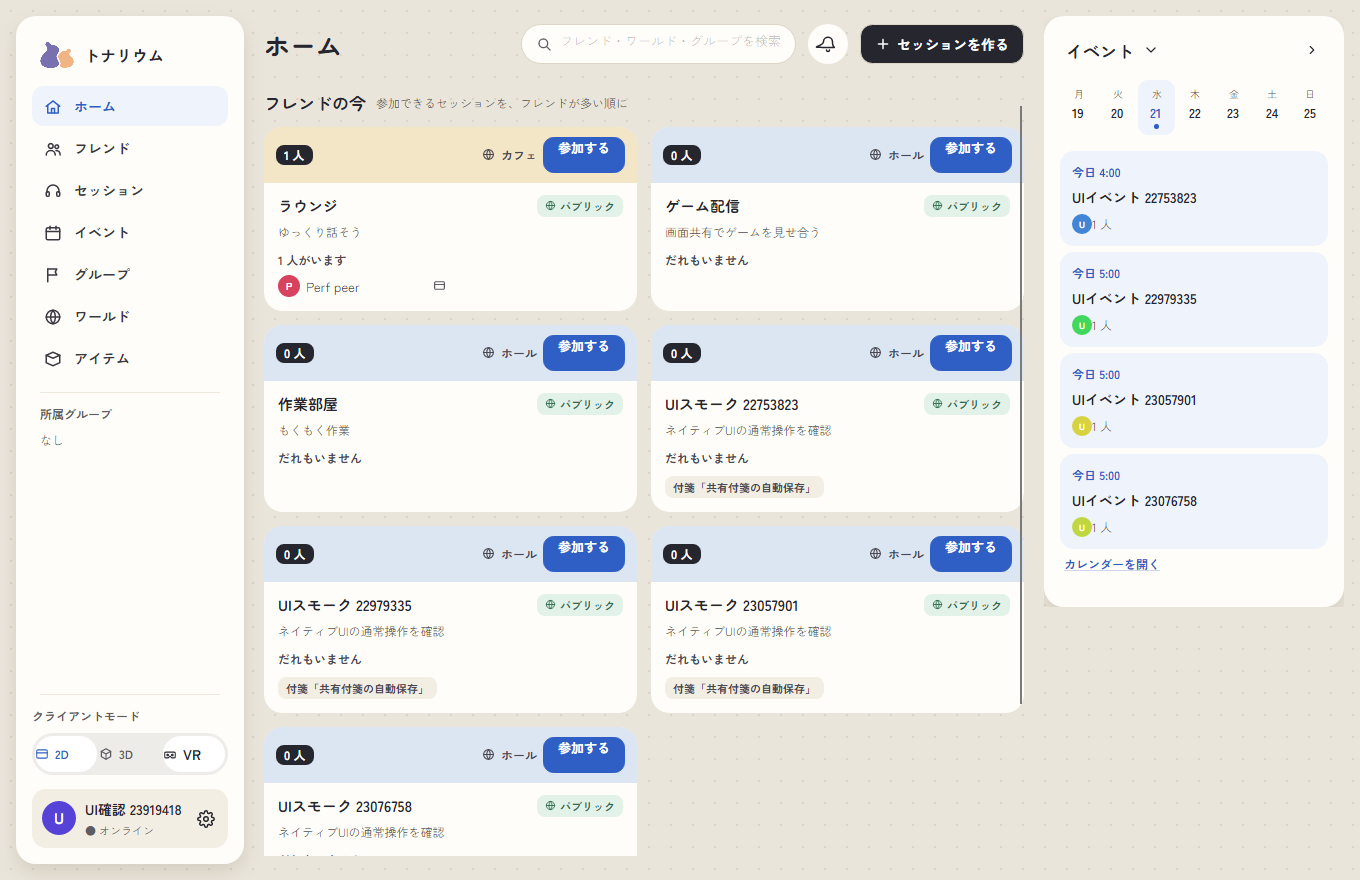
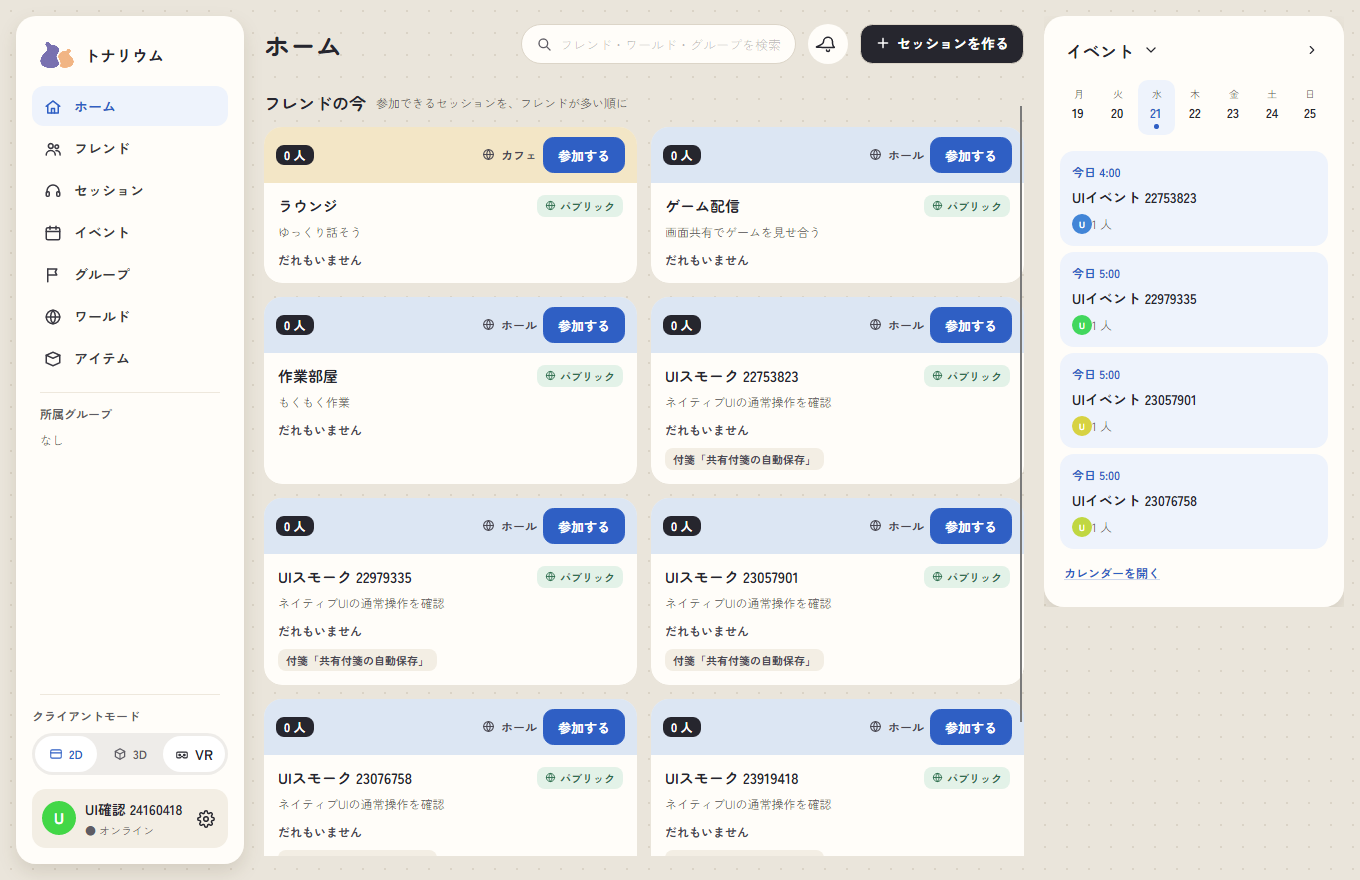
fix: center native button labels and composer text

diff --git a/native/Tonarium.Desktop/App.cs b/native/Tonarium.Desktop/App.cs
@@ -20,11 +20,15 @@ public sealed class App : Application
         });
         Styles.Add(new Style(x => x.OfType<Button>())
         {
-            Setters = { new Setter(Button.CornerRadiusProperty, new CornerRadius(10)), new Setter(Button.BorderBrushProperty, Ui.Brush("#DCD5C8")), new Setter(Button.BackgroundProperty, Ui.Brush(Ui.Paper)), new Setter(Button.MinHeightProperty, 36d) }
+            Setters = { new Setter(Button.CornerRadiusProperty, new CornerRadius(10)), new Setter(Button.BorderBrushProperty, Ui.Brush("#DCD5C8")), new Setter(Button.BackgroundProperty, Ui.Brush(Ui.Paper)), new Setter(Button.MinHeightProperty, 36d), new Setter(Button.HorizontalContentAlignmentProperty, Avalonia.Layout.HorizontalAlignment.Center), new Setter(Button.VerticalContentAlignmentProperty, Avalonia.Layout.VerticalAlignment.Center) }
         });
         Styles.Add(new Style(x => x.OfType<TextBox>())
         {
             Setters = { new Setter(TextBox.CornerRadiusProperty, new CornerRadius(10)), new Setter(TextBox.BorderBrushProperty, Ui.Brush("#DCD5C8")), new Setter(TextBox.BackgroundProperty, Brushes.White), new Setter(TextBox.PaddingProperty, new Thickness(12, 8)) }
+        });
+        Styles.Add(new Style(x => x.OfType<TextBox>().PropertyEquals(TextBox.AcceptsReturnProperty, false))
+        {
+            Setters = { new Setter(TextBox.VerticalContentAlignmentProperty, Avalonia.Layout.VerticalAlignment.Center) }
         });
     }
 

diff --git a/native/Tonarium.Desktop/Views/RoomView.cs b/native/Tonarium.Desktop/Views/RoomView.cs
@@ -130,7 +130,7 @@ public sealed class RoomView : UserControl
         var compose = new Grid { ColumnDefinitions = new ColumnDefinitions("38,*,38"), Margin = new Thickness(10, 8, 10, 10), ColumnSpacing = 6 };
         var attach = IconButton("attach", "画像・動画を添付", () => Run(() => AttachAsync()), 18); attach.Background = Brushes.White; attach.BorderBrush = Brush.Parse("#DCD5C8"); attach.BorderThickness = new Thickness(1); compose.Children.Add(attach);
         attach.Width = attach.Height = 38;
-        _input.MinWidth = 0; _input.AcceptsReturn = true; _input.MaxHeight = 100;
+        _input.MinWidth = 0; _input.AcceptsReturn = true; _input.MaxHeight = 100; _input.VerticalContentAlignment = VerticalAlignment.Center;
         Grid.SetColumn(_input, 1); compose.Children.Add(_input);
         var send = IconButton("send", "送信", () => Run(SendChatAsync), 18); send.Background = Brush.Parse("#2F5FC4"); send.Foreground = Brushes.White; Grid.SetColumn(send, 2); compose.Children.Add(send);
         send.Content = new WebIcon("send", 18, Brushes.White); send.Width = send.Height = 38;
